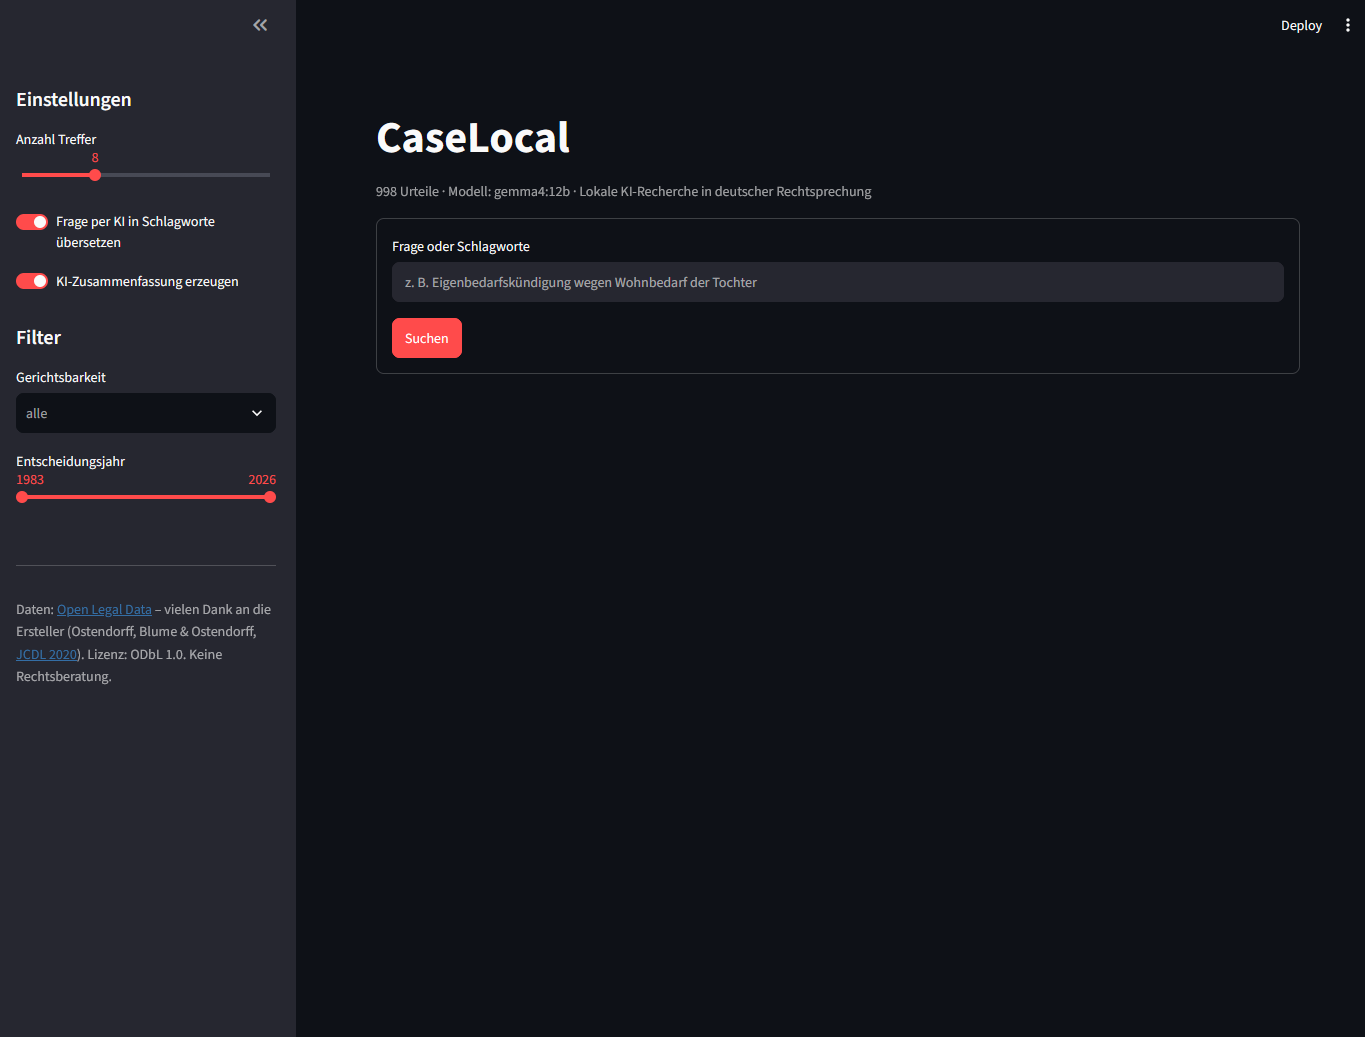
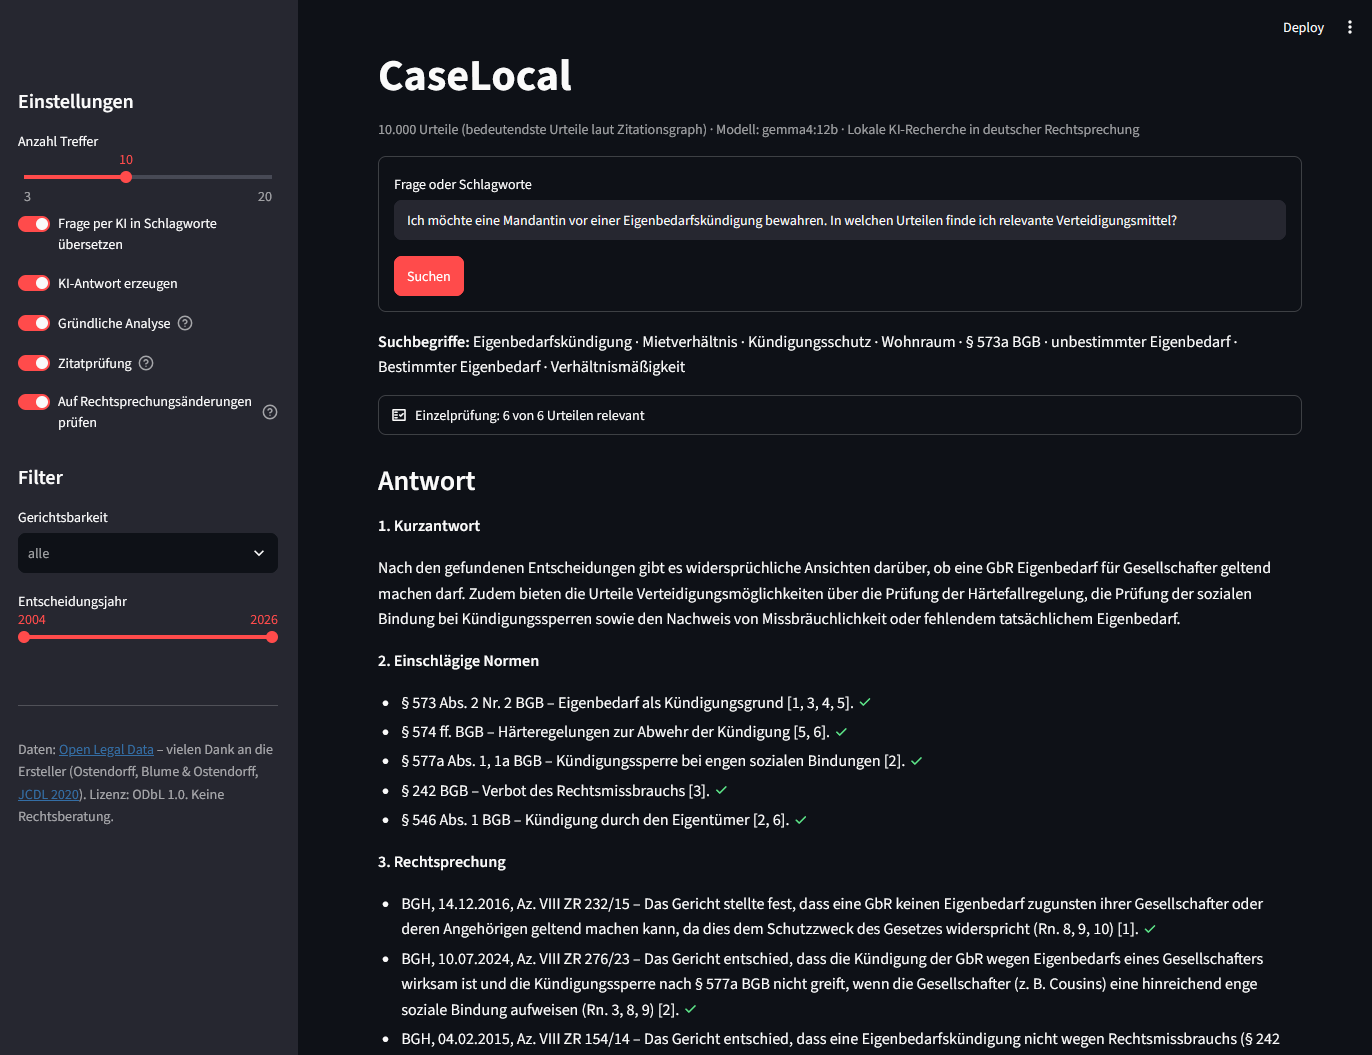
README: neue Screenshots und Beschreibung der aktuellen Funktionen

diff --git a/README.md b/README.md
@@ -2,13 +2,21 @@
 
 [![Tests](https://github.com/L0enneberga/CaseLocal/actions/workflows/tests.yml/badge.svg)](https://github.com/L0enneberga/CaseLocal/actions/workflows/tests.yml)
 
-Durchsuchbare Datenbank deutscher Gerichtsentscheidungen mit Schlagwortsuche, semantischer Suche und KI-Zusammenfassung. **Alles läuft lokal**: Kein Text verlässt den Rechner, und es entstehen keine API-Kosten.
+Recherche in den 10.000 bedeutendsten deutschen Gerichtsentscheidungen – mit hybrider Suche, gegliederter KI-Antwort und einer Zitatprüfung, die nicht belegte Aussagen sichtbar macht. **Alles läuft lokal**: Kein Text verlässt den Rechner, und es entstehen keine API-Kosten.
 
 > **Datengrundlage:** CaseLocal nutzt den Urteilsdatensatz von [Open Legal Data](https://openlegaldata.io) (Ostendorff, Blume & Ostendorff, 2020). Das Sammeln, Aufbereiten und offene Bereitstellen von über 400.000 Gerichtsentscheidungen ist ihre Arbeit, nicht meine. Herzlichen Dank dafür! Details und Zitat: [Datengrundlage und Dank](#datengrundlage-und-dank).
 
-![Suche mit KI-Zusammenfassung](docs/screenshot1.png)
+**Gegliederte Antwort:** Kurzantwort, einschlägige Normen und Rechtsprechung mit Randnummern. Jede belegte Aussage ist gegen das zitierte Urteil geprüft (✓).
 
-![Gefundene Urteile mit Fundstellen](docs/screenshot2.png)
+![Gegliederte KI-Antwort mit geprüften Belegen](docs/screenshot1.png)
+
+**Zitatprüfung:** Teilweise gestützte Aussagen werden orange, nicht gestützte rot markiert. Die Treffer zeigen Instanz, Zitierhäufigkeit und Jahr.
+
+![Zitatprüfung markiert nicht belegte Aussagen](docs/screenshot2.png)
+
+**Fundstelle im Urteil:** der passende Abschnitt der Gründe mit Randnummern und verlinkten Normen.
+
+![Fundstelle mit Randnummern und verlinkten Normen](docs/screenshot3.png)
 
 ## Was das Projekt kann
 
@@ -116,7 +124,7 @@ pip install -r requirements-dev.txt
 pytest
 ```
 
-Die Tests prüfen die Bausteine, die ohne Daten und ohne Ollama funktionieren: FTS5-Anfragen, Filter, das Zerlegen in Abschnitte und das Erkennen von Normzitaten.
+Die Tests prüfen die Bausteine, die ohne Daten und ohne Ollama funktionieren: Bedeutungs-Score und Kontingente der Auswahl, Erkennen der Urteilsgliederung und Randnummern, Zerlegen in Abschnitte, FTS5-Anfragen, Filter und Rangfolge, Satzzerlegung und Markierung der Zitatprüfung, Vorauswahl für Rechtsprechungsänderungen und das Erkennen von Normzitaten.
 
 ## Datengrundlage und Dank
 
